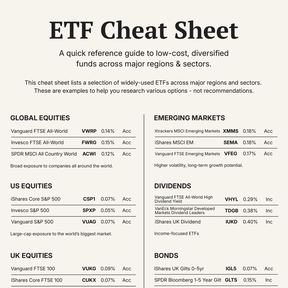
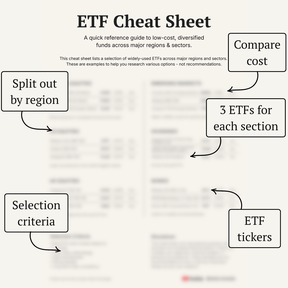
Links page: add Nick's photo and the four card images
Claude-Session: https://claude.ai/code/session_01C1QpT2Mp9MaEp5mmrSdzxm

Changed region(s): [[0.0, 0.0312, 1.0, 1.0]]

diff --git a/links/index.html b/links/index.html
@@ -150,7 +150,7 @@
    ===================================================================== */
 const PAGE = {
   name: "Nick Crease",
-  photo: "",            // e.g. "img/nick.jpg" (square, at least 800 x 800)
+  photo: "img/nick.jpg",   // square, at least 800 x 800
   umamiWebsiteId: "",   // from Umami: Settings > Websites > Edit > Website ID
 
   socials: [
@@ -168,7 +168,7 @@ const PAGE = {
       subtitle: "Use code NICK. Capital at risk. T&C’s apply.",
       button: "Open an account",
       url: "https://lightyear.com/nickcrease",
-      image: "",
+      image: "img/lightyear.png",
       show: true,
     },
     {
@@ -186,7 +186,7 @@ const PAGE = {
       subtitle: "Get a welcome bonus up to £100",
       button: "Open an account",
       url: "https://join.monzo.com/c/14x35m6y",
-      image: "",
+      image: "img/monzo.png",
       show: true,
     },
     {
